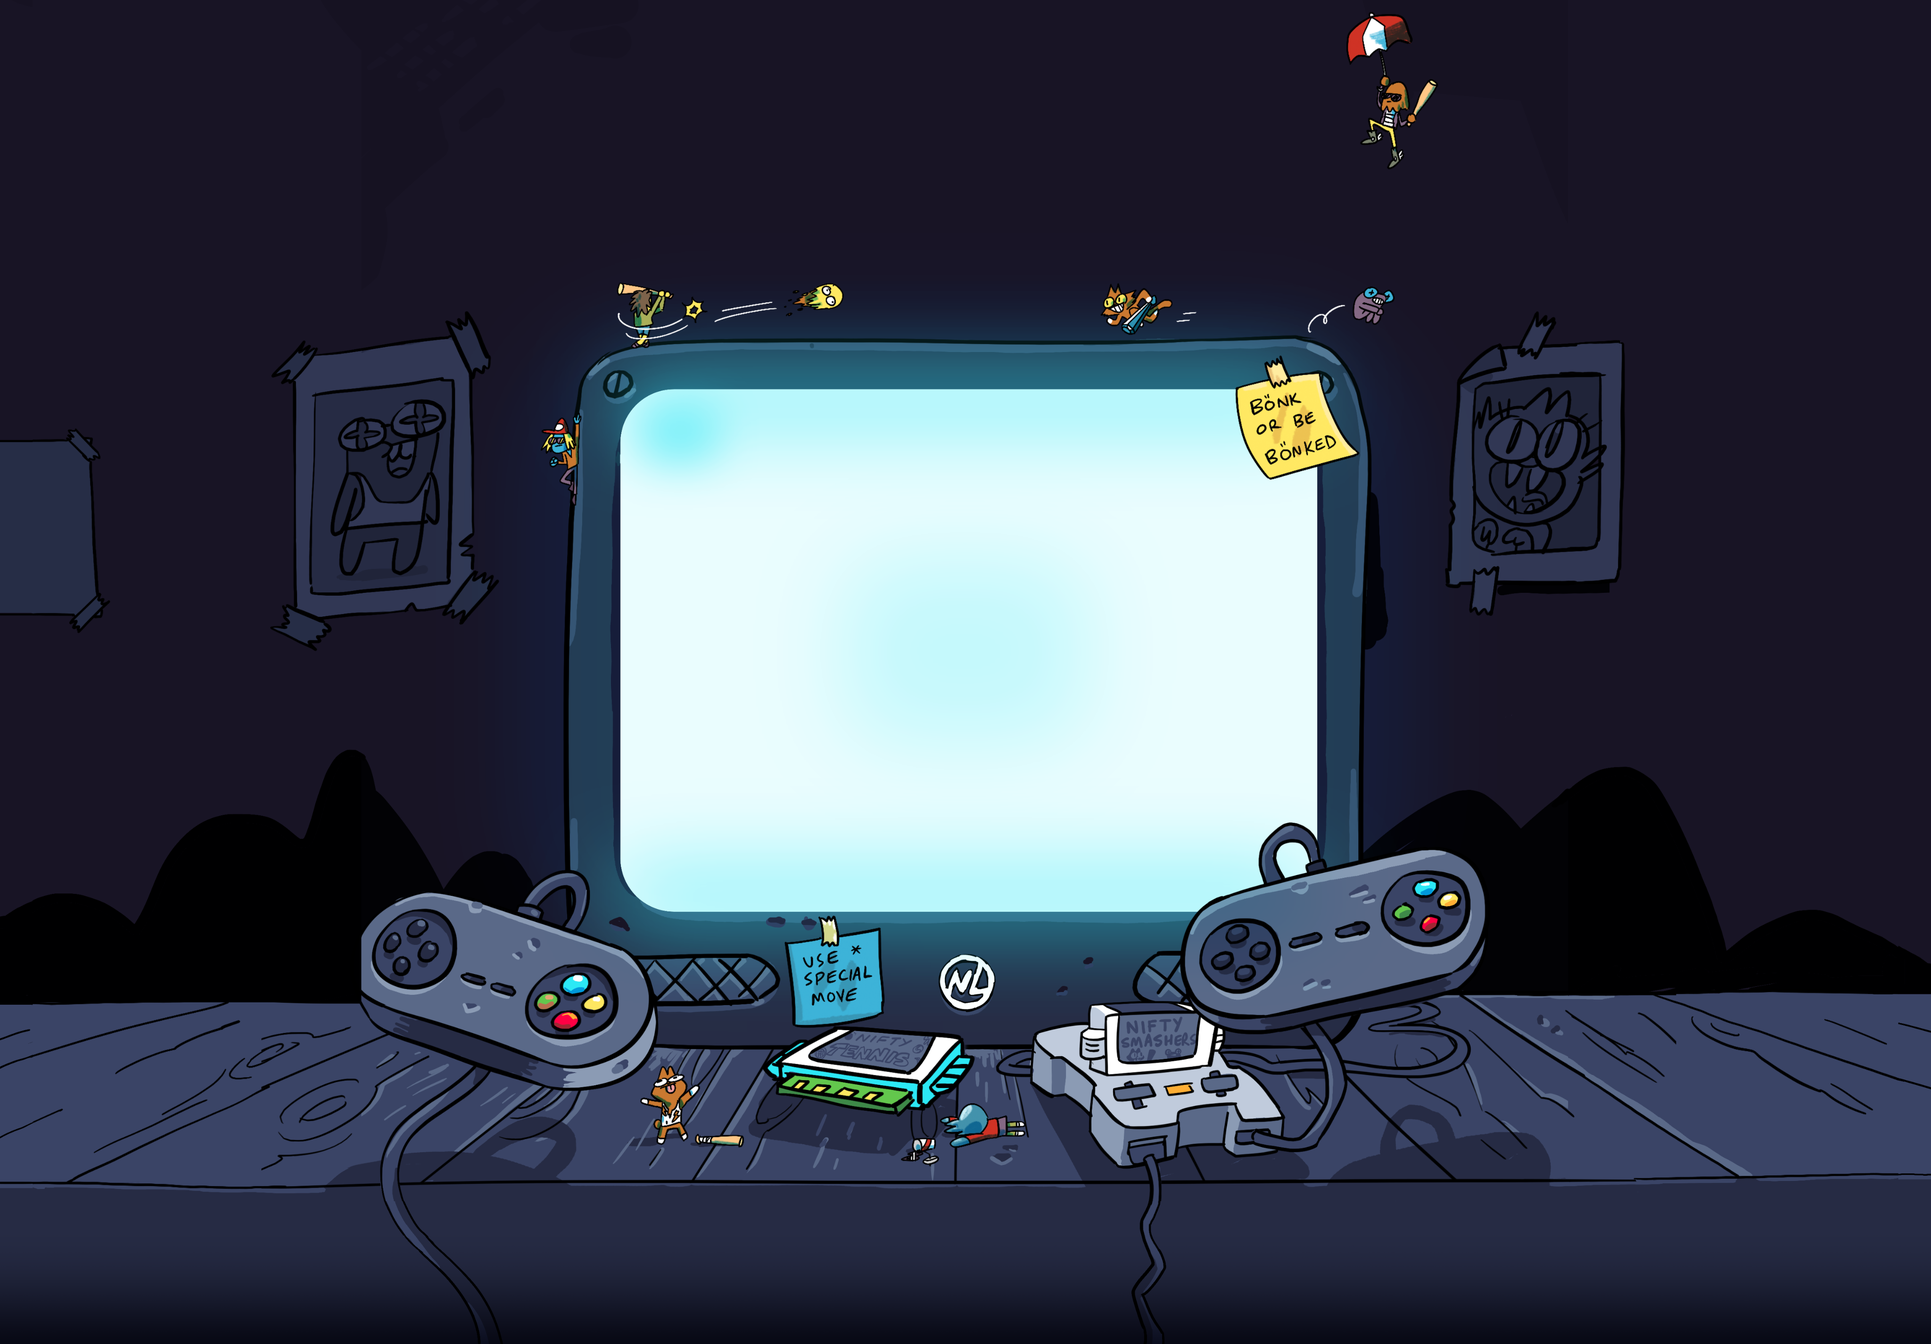
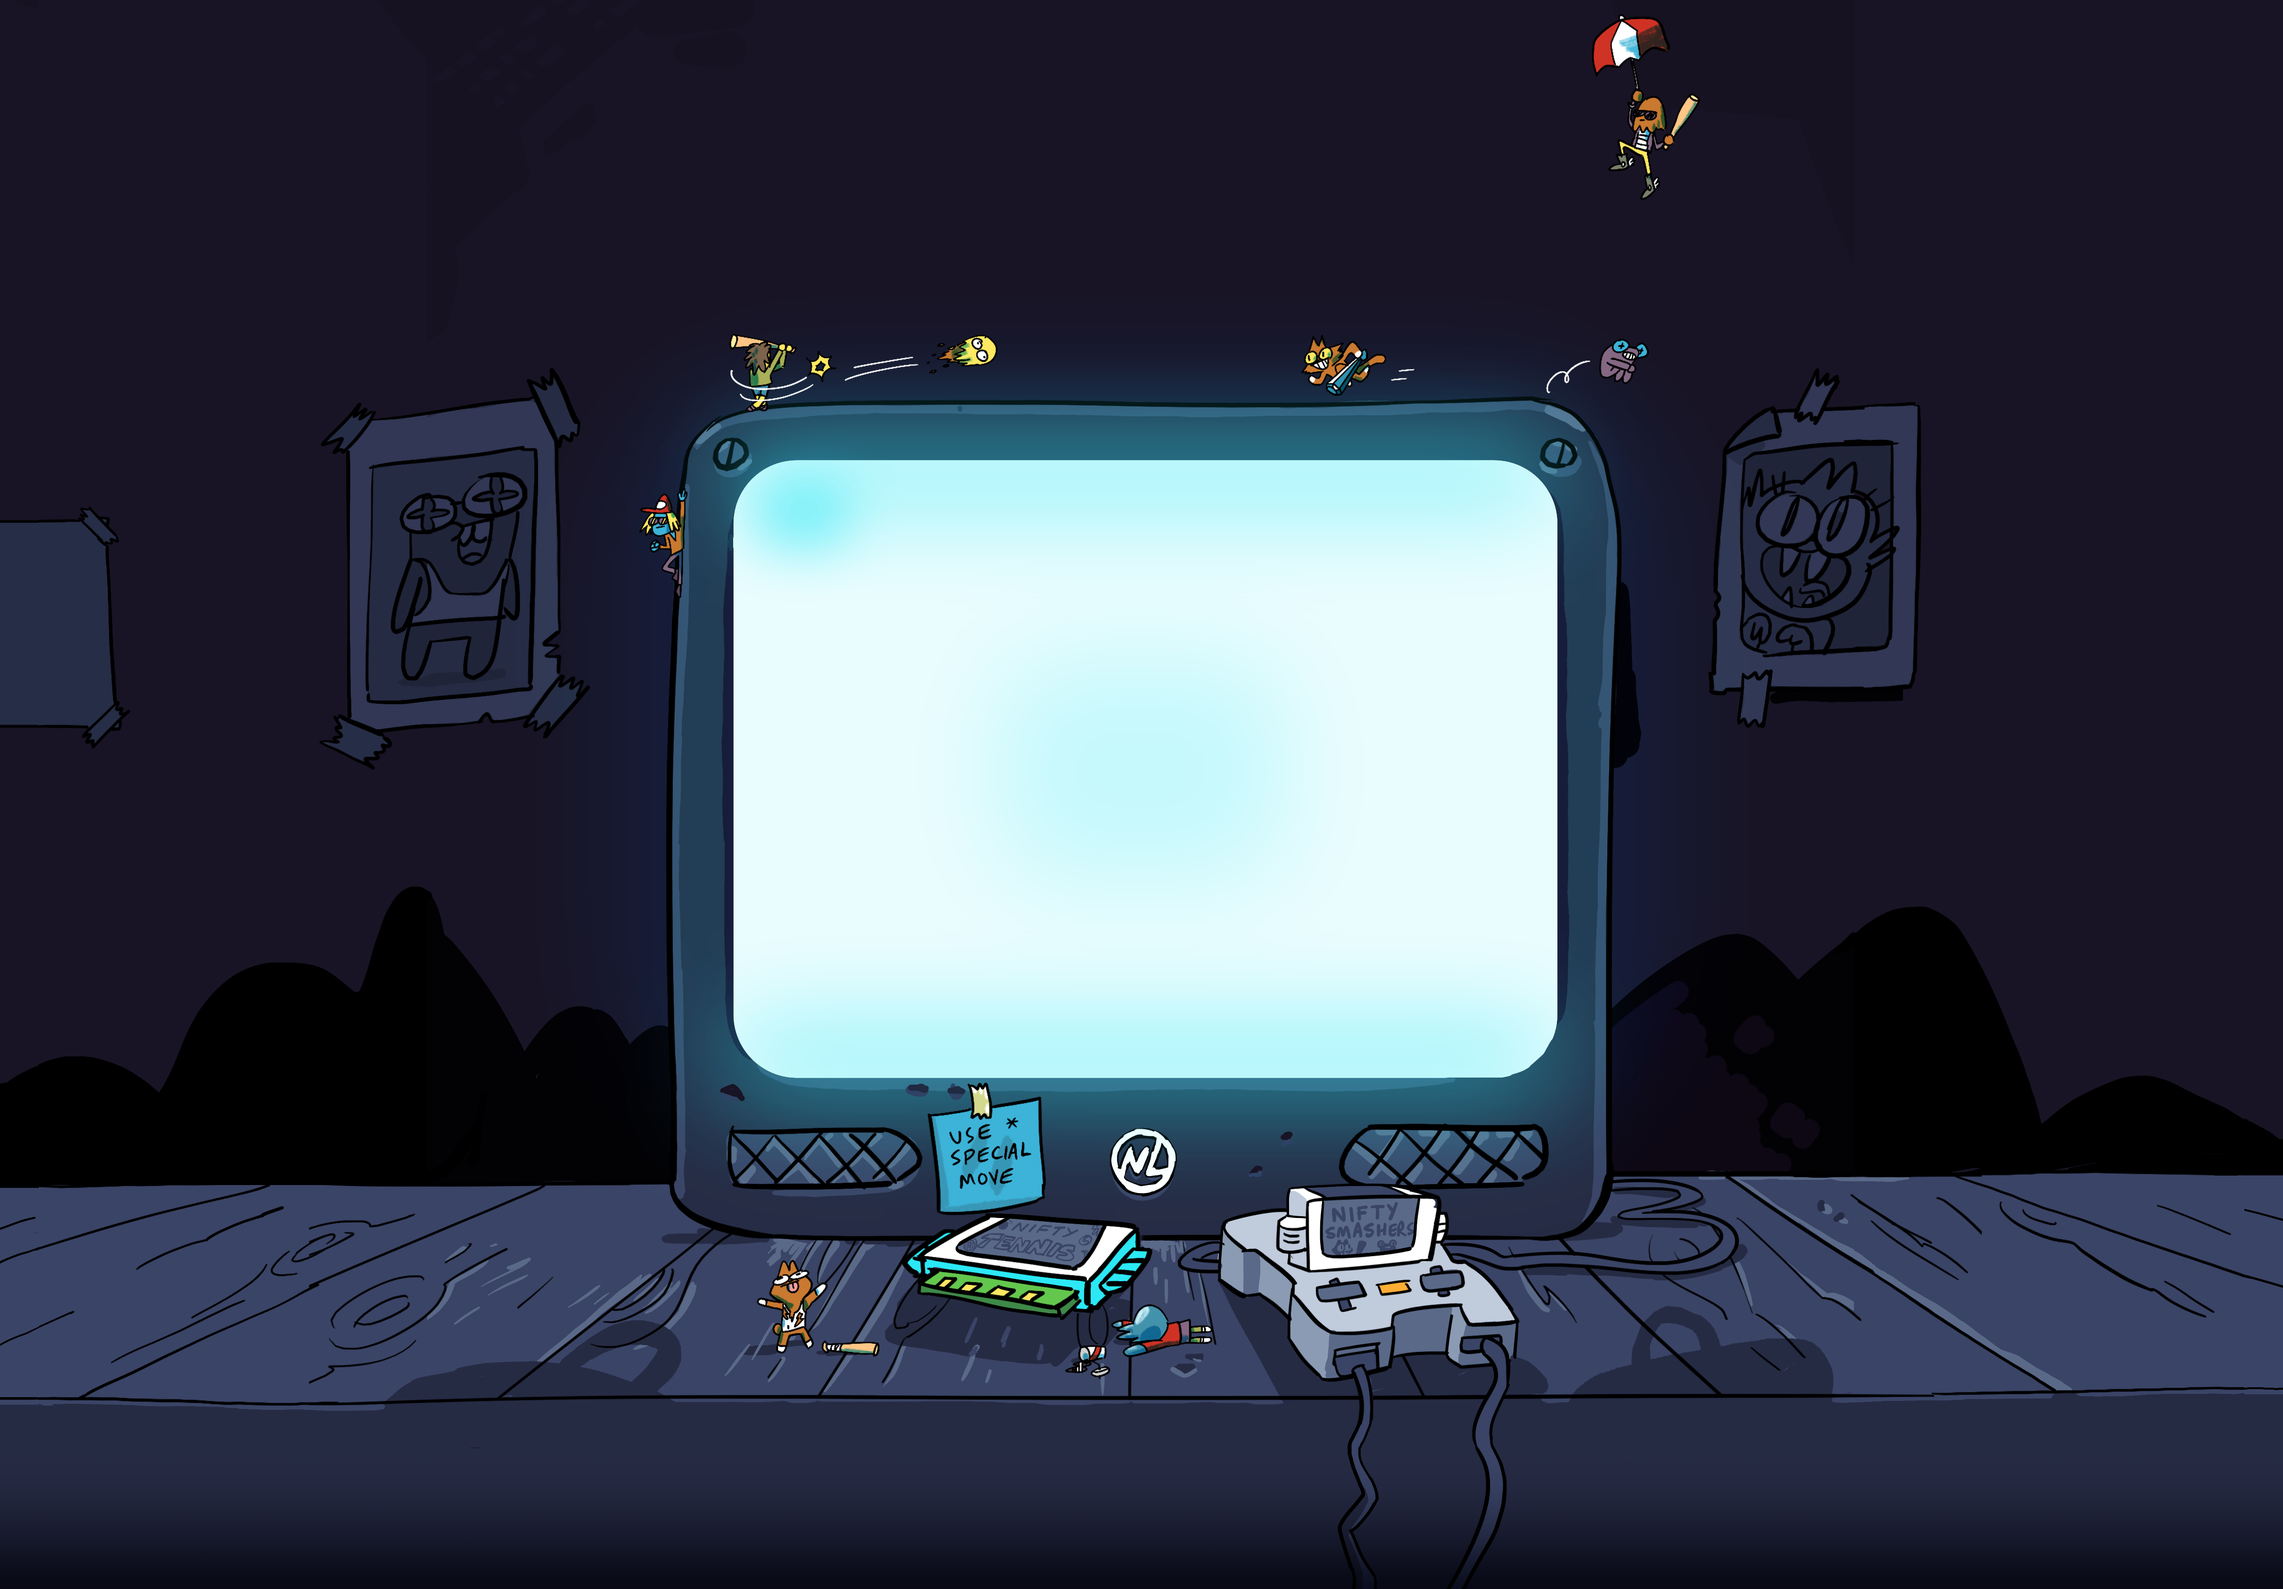
Update Careers page

diff --git a/components/careers/JobCard.tsx b/components/careers/JobCard.tsx
@@ -1,5 +1,6 @@
 import { useState } from 'react';
 import { MDBCollapse, MDBCard, MDBIcon } from 'mdb-react-ui-kit';
+import AnimatedWrapper from '@components/AnimatedWrapper';
 
 interface JobCardProps {
   details: {
@@ -24,61 +25,101 @@ const JobCard = ({ details }: JobCardProps): JSX.Element => {
         onClick={() => setOpen(!open)}
       >
         <div>
-          <h5>{title}</h5>
-          <p>{location}</p>
+          <AnimatedWrapper>
+            <h5 className="animated-fade animated-fade-start transition-delay-small">{title}</h5>
+          </AnimatedWrapper>
+          <AnimatedWrapper>
+            <p className="animated-fade animated-fade-start transition-delay-medium">{location}</p>
+          </AnimatedWrapper>
         </div>
         <div className="jobs-card-header">
-          <a
-            className="btn theme-btn-primary m-3 d-md-block d-none mw-fix"
-            href={link}
-            role="button"
-            target="_blank"
-            rel="noreferrer"
-            onClick={e => e.stopPropagation()}
-          >
-            Apply
-          </a>
-          <div className="collapse-icon">
-            <MDBIcon fas icon={open ? 'angle-down' : 'angle-right'} size="3x" />
-          </div>
+          <AnimatedWrapper>
+            <a
+              className="btn theme-btn-primary m-3 d-md-block d-none mw-fix animated-fade-start animated-fade transition-delay-medium"
+              href={link}
+              role="button"
+              target="_blank"
+              rel="noreferrer"
+              onClick={e => e.stopPropagation()}
+            >
+              Apply
+            </a>
+          </AnimatedWrapper>
+          <AnimatedWrapper>
+            <div className="collapse-icon animated-fade-start animated-fade transition-delay-large">
+              <MDBIcon fas icon={open ? 'angle-down' : 'angle-right'} size="3x" />
+            </div>
+          </AnimatedWrapper>
         </div>
       </div>
 
       <MDBCollapse show={open} className="p-md-5 p-3 pt-md-1 pt-2 h-auto">
-        <h6 className="color-purple md-text-left">About the Role</h6>
+        <AnimatedWrapper>
+          <h6 className="color-purple md-text-left animated-fade-start animated-fade transition-delay-small">
+            About the Role
+          </h6>
+        </AnimatedWrapper>
         <div className="md-text-left div-paragraph">
-          <p>{aboutTheRole}</p>
+          <AnimatedWrapper>
+            <p className="animated-fade-start animated-fade transition-delay-medium">{aboutTheRole}</p>
+          </AnimatedWrapper>
         </div>
         {responsibilities && (
           <div className="div-paragraph">
-            <h6 className="color-purple pt-5 md-text-left">Responsibilities:</h6>
+            <AnimatedWrapper>
+              <h6 className="color-purple pt-5 md-text-left animated-fade-start animated-fade transition-delay-small">
+                Responsibilities:
+              </h6>
+            </AnimatedWrapper>
             <ul className="md-text-left">
               {responsibilities.map((resp, index) => (
-                <li key={index}>{resp}</li>
+                <AnimatedWrapper key={index}>
+                  <li className="animated-fade-start animated-fade transition-delay-medium">{resp}</li>
+                </AnimatedWrapper>
               ))}
             </ul>
           </div>
         )}
         <div className="div-paragraph">
-          <h6 className="color-purple pt-5 md-text-left">Requirements:</h6>
+          <AnimatedWrapper>
+            <h6 className="color-purple pt-5 md-text-left animated-fade-start animated-fade transition-delay-small">
+              Requirements:
+            </h6>
+          </AnimatedWrapper>
           <ul className="md-text-left">
             {requirements.map((req, index) => (
-              <li key={index}>{req}</li>
+              <AnimatedWrapper key={index}>
+                <li className="animated-fade-start animated-fade transition-delay-medium">{req}</li>
+              </AnimatedWrapper>
             ))}
           </ul>
         </div>
         <div className="div-paragraph">
-          <h6 className="color-purple pt-5 md-text-left">What we offer:</h6>
+          <AnimatedWrapper>
+            <h6 className="color-purple pt-5 md-text-left animated-fade-start animated-fade transition-delay-small">
+              What we offer:
+            </h6>
+          </AnimatedWrapper>
           <ul className="md-text-left">
             {benefits.map((ben, index) => (
-              <li key={index}>{ben}</li>
+              <AnimatedWrapper key={index}>
+                <li className="animated-fade-start animated-fade transition-delay-medium">{ben}</li>
+              </AnimatedWrapper>
             ))}
           </ul>
         </div>
         <div className="d-flex justify-content-center m-3">
-          <a className="btn theme-btn-primary btn-lg" href={link} role="button" target="_blank" rel="noreferrer">
-            Apply
-          </a>
+          <AnimatedWrapper>
+            <a
+              className="btn theme-btn-primary btn-lg animated-fade-start animated-fade transition-delay-medium"
+              href={link}
+              role="button"
+              target="_blank"
+              rel="noreferrer"
+            >
+              Apply
+            </a>
+          </AnimatedWrapper>
         </div>
       </MDBCollapse>
     </MDBCard>

diff --git a/pages/careers/index.tsx b/pages/careers/index.tsx
@@ -7,6 +7,7 @@ import styles from './index.module.scss';
 import JobCard from '../../components/careers/JobCard';
 import Layout from '../../components/layout';
 import { JOBS } from '../../data/constants';
+import AnimatedWrapper from '@components/AnimatedWrapper';
 
 const Careers: NextPage = () => {
   return (
@@ -17,30 +18,38 @@ const Careers: NextPage = () => {
       </Head>
 
       <div className={cn(styles.topSection, 'd-flex align-items-center justify-content-center container flex-wrap')}>
-        <div className={styles.imageContainer}>
-          <Image
-            src="/img/careers/careers_v02_2x.png"
-            alt="Satoshi moon"
-            width={648}
-            height={406}
-            layout="responsive"
-            priority
-          />
-        </div>
+        <AnimatedWrapper>
+          <div className={cn(styles.imageContainer, 'animated-fade-start animated-fade transition-delay-medium')}>
+            <Image
+              src="/img/careers/careers_v02_2x.png"
+              alt="Satoshi moon"
+              width={648}
+              height={406}
+              layout="responsive"
+              priority
+            />
+          </div>
+        </AnimatedWrapper>
         <div className={styles.description}>
-          <h1>Work with Nifty League</h1>
-          <p>
-            Nifty League is leading competitive gaming in the metaverse - moving away from play-to-earn into a new era
-            of play-and-earn by offering a fun and engaging gaming ecosystem. We are backed by top VCs including RSE
-            Ventures, Lerer Hippeau, Spartan Group, and Gary Vaynerchuk, and are looking to bulk out our engineering
-            team with world-class Unity game developers. As a startup, we are lean, have low egos, work hard and love
-            what we do. You will have a large amount of ownership and work directly with the co-founders and community.
-            If this sounds exciting to you, keep reading!
-          </p>
+          <div className="mb-3">
+            <AnimatedWrapper>
+              <h1 className="animated-header-text animated-header-text-start">Work with Nifty League</h1>
+            </AnimatedWrapper>
+          </div>
+          <AnimatedWrapper>
+            <p className="animated-header-text animated-header-text-start transition-delay-small">
+              Nifty League is leading competitive gaming in the metaverse - moving away from play-to-earn into a new era
+              of play-and-earn by offering a fun and engaging gaming ecosystem. We are backed by top VCs including RSE
+              Ventures, Lerer Hippeau, Spartan Group, and Gary Vaynerchuk, and are looking to bulk out our engineering
+              team with world-class Unity game developers. As a startup, we are lean, have low egos, work hard and love
+              what we do. You will have a large amount of ownership and work directly with the co-founders and
+              community. If this sounds exciting to you, keep reading!
+            </p>
+          </AnimatedWrapper>
         </div>
       </div>
 
-      <div>
+      <div className="py-5">
         {JOBS.map(details => (
           <JobCard key={details.id} details={details} />
         ))}

diff --git a/pages/index.tsx b/pages/index.tsx
@@ -160,7 +160,7 @@ const Home: NextPage = () => {
                     width={4842}
                     height={3371}
                     layout="responsive"
-                    src="/img/home-classic-gaming-reinvented-tvbase.png"
+                    src="/img/home-classic-gaming-reinvented-notv.png"
                   />
                   <video
                     width="100%"
@@ -174,6 +174,16 @@ const Home: NextPage = () => {
                   >
                     <source src="/video/sushi.mp4" type="video/mp4" />
                   </video>
+                  <div className="position-absolute gaming-bonk animated-fade-start animated-fade transition-delay-medium">
+                    <Image
+                      alt="Classic Gaming Reinvented Bonk"
+                      className="pixelated"
+                      width={4842}
+                      height={3371}
+                      layout="responsive"
+                      src="/img/bonk.png"
+                    />
+                  </div>
                 </div>
               </AnimatedWrapper>
               <div className="gaming-controller">

diff --git a/styles/app.css b/styles/app.css
@@ -711,6 +711,13 @@ a {
   font-weight: 700;
 }
 
+.gaming-bonk {
+  top: 0px;
+  left: 0px;
+  width: 100%;
+  height: 100%;
+}
+
 .home-hero-characters-image, .home-nftl-token-image {
   width: 100%;
   height: 100%;
